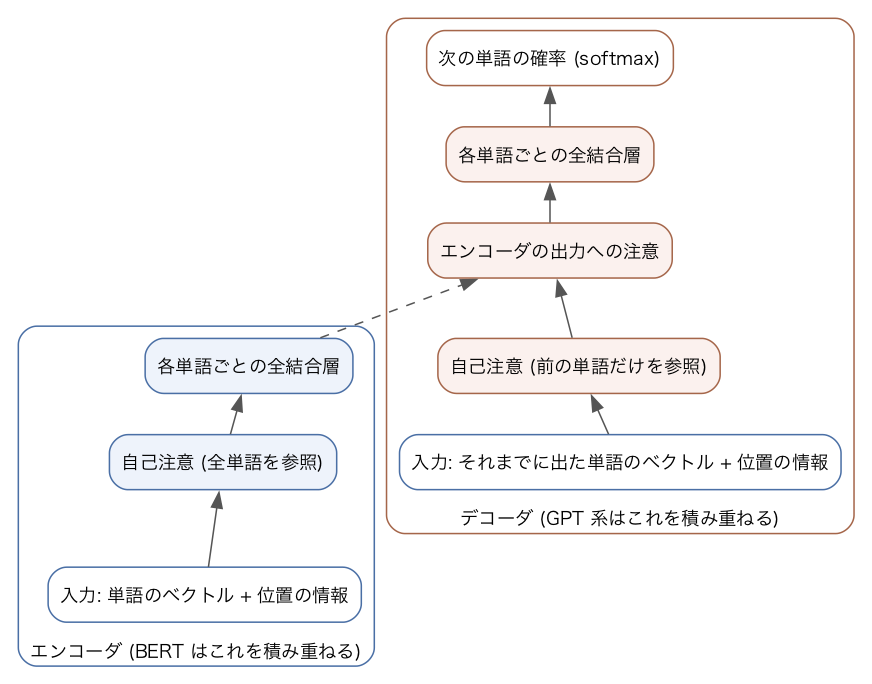
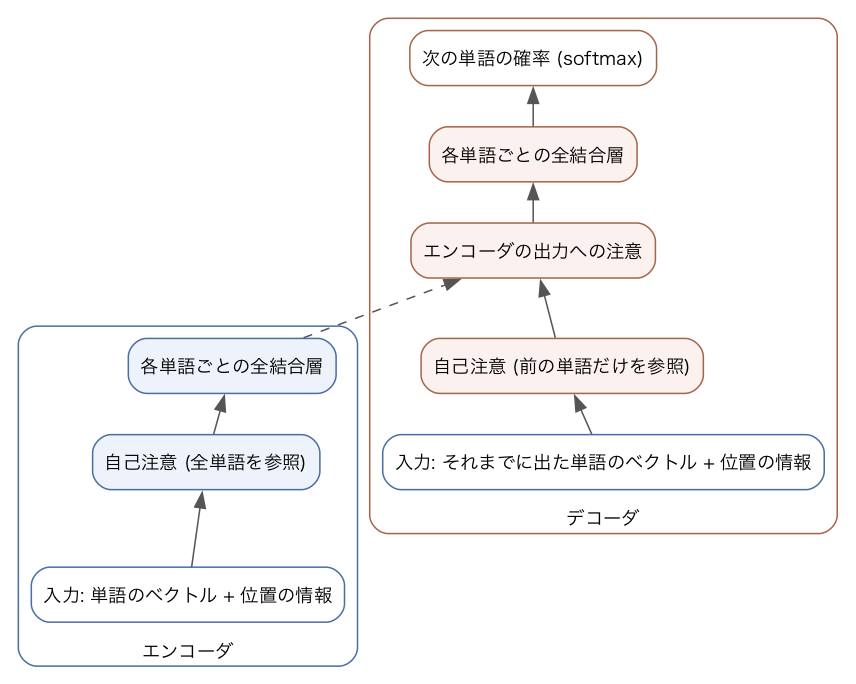
lectures(dsp): Ch8 の Transformer の図から GPT の誤った帰属を外し, 未執筆の Ch5 への参照と生成 AI の言い切りを直す
- 図のデコーダはエンコーダの出力への注意を含む元の構成なので「GPT 系はこれを積み重ねる」を外し, GPT はその注意を除いたデコーダを積み重ねると本文に書く
- 平均二乗誤差の参照先を, まだ書いていない Ch5 から本章の学習の節に変える
- 生成 AI が学習後の出来事を知らない, に「検索などの外部の仕組みを使わない限り」を加える
- plan: Ch10 の生成 AI の節を必修にするか発展にするかを未決として記録

Claude-Session: https://claude.ai/code/session_01JewaKWb5JMXnkwjkkvKbg6

diff --git a/plan/in-progress/dsp-course-material.md b/plan/in-progress/dsp-course-material.md
@@ -397,6 +397,9 @@ dsp2 の title の em ダッシュ (dsp1 の章立ても追随).
   学習と推論・評価 (混同行列はここで最小限定義. Ch6 に加筆したら Ch6 への参照に寄せる)・監視と再学習 (手書き数字のデータドリフト).
   演習はクイズ形式 4 題 (DSP8-1〜4). 既存部分の誤字と全角の句読点, 字下げで表示が崩れていた箇所も直した.
   図の元 (matplotlib と graphviz) は git 管理外の `_scratch/dsp8/` に置いた. 確認用に `open: true`.
+- **未決 (理由 a: ユーザ判断. Ch10 を書くときに AUQ で問う)**: Ch10 に移した「生成 AI の仕組み」を必修にするか発展にするか.
+  いまは発展の直前 (構造上は必修) に仮置きしている. カリキュラム上は実践科目の割当項目ではなく (3-5 のキーワード群は AI 概論の担当),
+  Ch10 は授業 1 回分の内容が最も多い章なので, 発展へ回す案もある. 12 回の割付の表 (第 10 回) はまだ変えていない.
 - **公開状態 (2026-09-26 ユーザ指示)**: 確認用に Ch1 (目次), Ch4, Ch7 を `open: true` にし, Lectures ページにデータサイエンス実践のカード (dsp1 へ) を加えた. ほかの章は `open: false` のまま. 配布 CSV から全行 1 だった個数の列を削った.
 - **Ch4「距離と類似度」執筆済み (2026-09-25)**. 都道府県別データでユークリッド距離, 標準化, コサイン類似度. Ch7 から参照する.
 - Ch6 の末尾に中身の無い `##` 見出しと「教師なし学習」見出しが残っている. Ch6 の執筆時に Ch7 への導線として整理する (先送り理由: Ch6 の加筆は Phase 3 の別作業で, 今回の Ch7 の範囲外. 着地先は本節).
